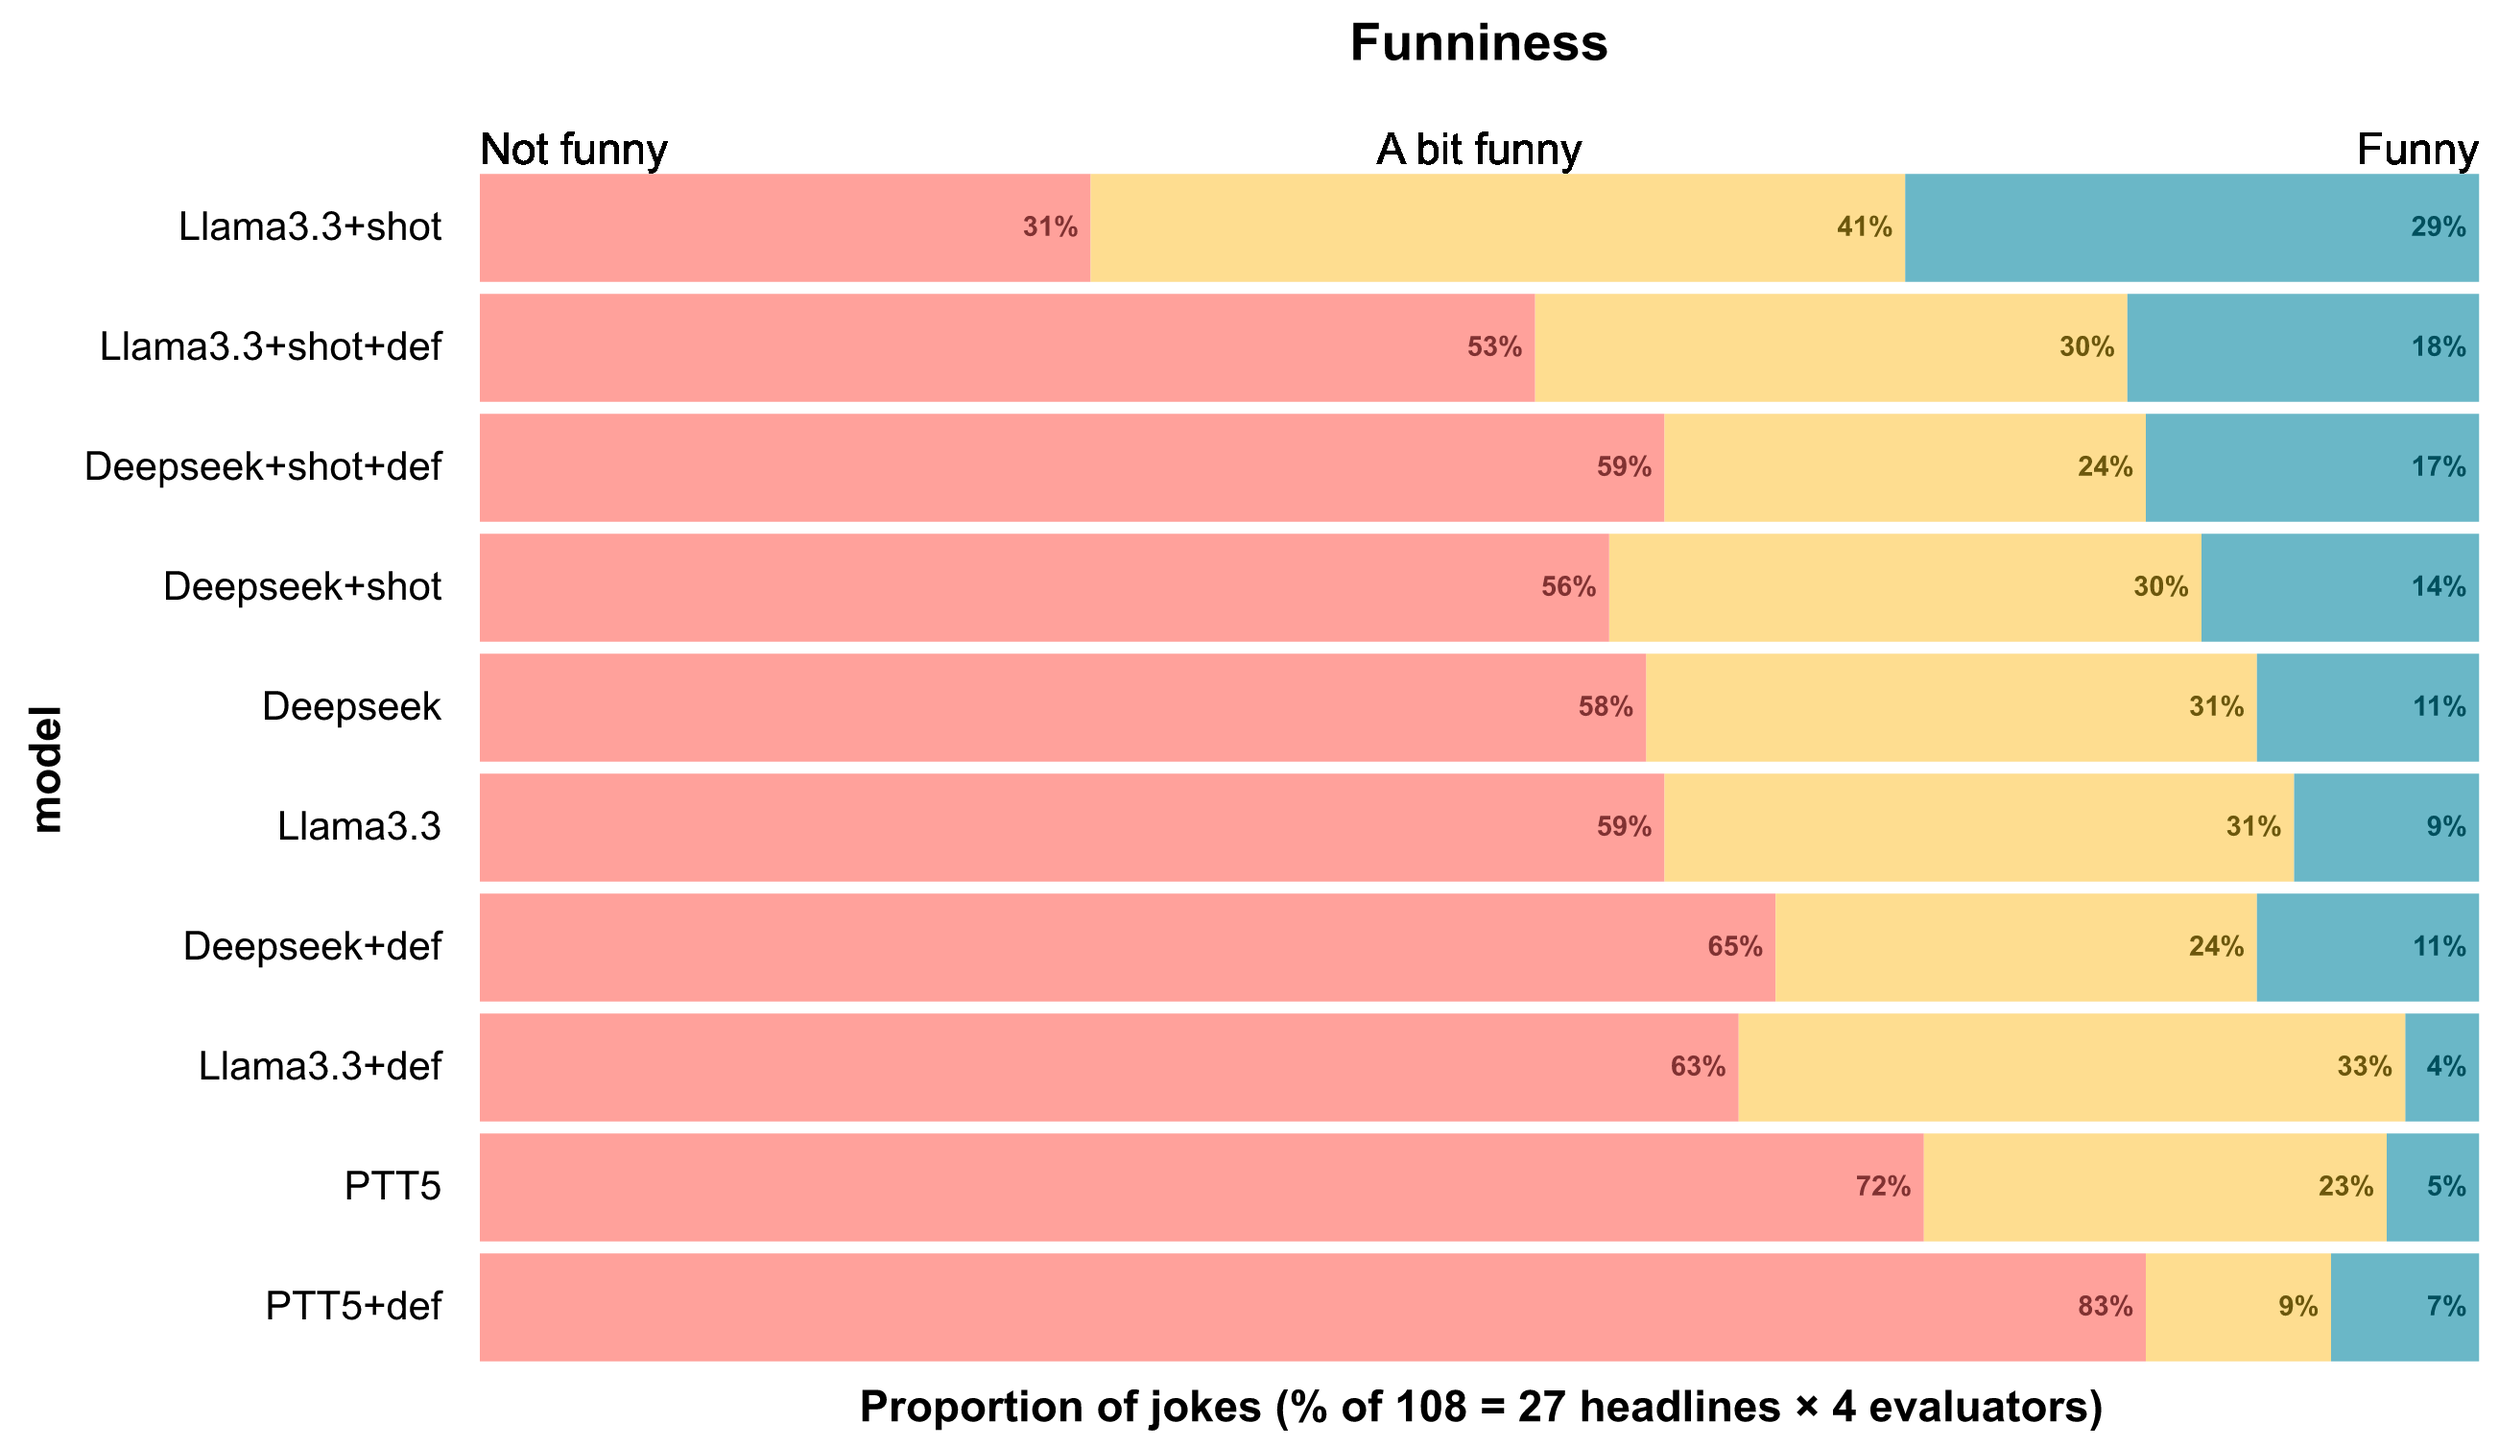
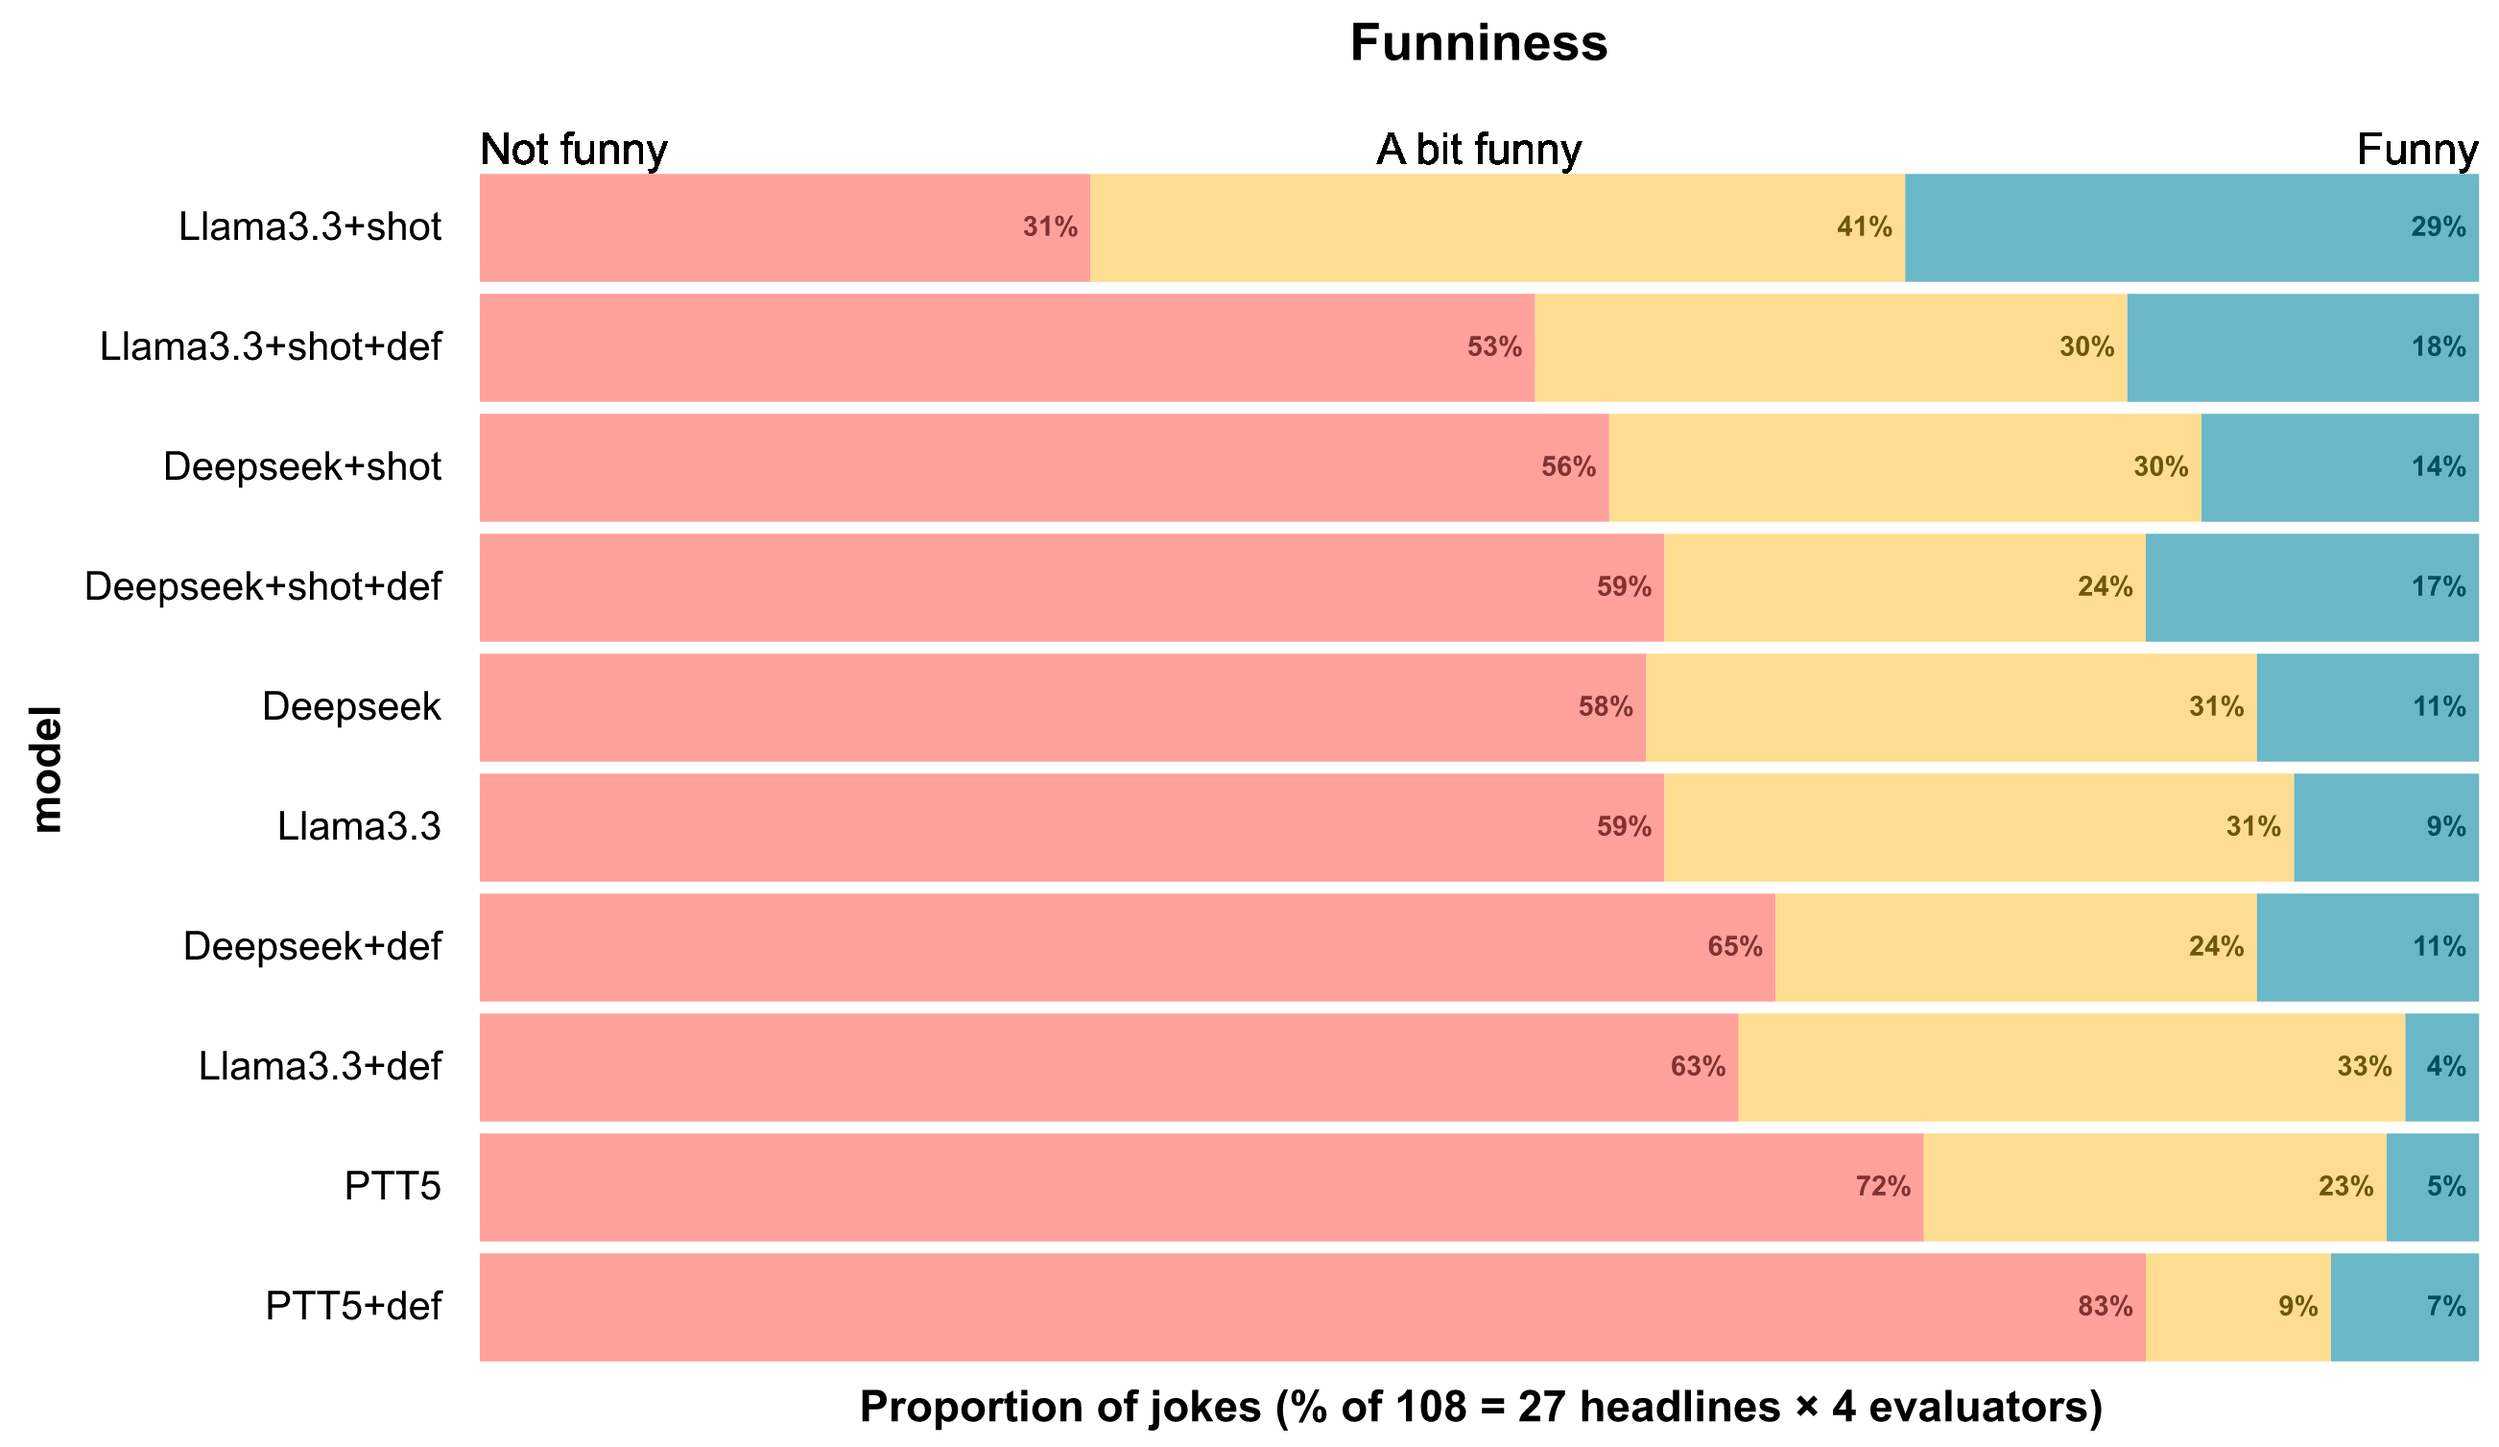
More analysis for the paper

diff --git a/scripts/analysis/evaluation_analysis.py b/scripts/analysis/evaluation_analysis.py
@@ -1,6 +1,8 @@
 from argparse import ArgumentParser
 from pathlib import Path
 
+from polars.convert import normalize
+
 import altair as alt
 import krippendorff
 import numpy as np
@@ -29,6 +31,8 @@ df = (pl.concat(dfs)
       .select([pl.col("evaluator"),
                pl.col("model").str.replace_many(model_names),
                pl.col("headline_id"),
+               pl.col("headline"),
+               pl.col("generated"),
                pl.col("funniness"),
                pl.col("typicality"),
                pl.col("relation"),
@@ -41,72 +45,140 @@ new_rows = list()
 splits_path = Path("evaluation_interface/config/config.yaml")
 splits = yaml.safe_load(splits_path.read_text())["splits"]
 splits_df = (pl.DataFrame([{"evaluator": evaluator, "headline_id": headline_ids}
-                          for evaluator, headline_ids in splits.items()
-                          if evaluator in df["evaluator"].unique()])
+                           for evaluator, headline_ids in splits.items()
+                           if evaluator in df["evaluator"].unique()])
              .explode("headline_id"))
 splits_df = splits_df.join(df.select(pl.col("model")), how="cross").unique()
 missing_df = (splits_df.join(df, on=["evaluator", "headline_id", "model"], how="anti")
               .with_columns([pl.lit("Não tem piada").alias("funniness"),
                              pl.lit("Não tem relação").alias("relation")])
-              .join(df.select(["headline_id", "model", "typicality", "similarity"]).unique(),
+              .join(df.select(pl.all().exclude(["evaluator", "funniness", "relation"])).unique(),
                     on=["headline_id", "model"], how="left")
               .select(pl.col("evaluator"),
                       pl.col("model"),
                       pl.col("headline_id"),
+                      pl.col("headline"),
+                      pl.col("generated"),
                       pl.col("funniness"),
                       pl.col("typicality"),
                       pl.col("relation"),
                       pl.col("similarity")))
 print(f"Added {missing_df.height} missing rows.\n")
-df = df.extend(missing_df)
+df = (df.extend(missing_df)
+      .with_columns(pl.col("funniness").cast(pl.Enum(fun_order)).to_physical() + 1,
+                    pl.col("relation").cast(pl.Enum(rel_order)).to_physical() + 1))
 
 # Descriptive statistics
-df = (df.with_columns([pl.col("funniness").cast(pl.Enum(fun_order)).to_physical(),
-                       pl.col("relation").cast(pl.Enum(rel_order)).to_physical()]))
 agg_df = (df.group_by(["model", "headline_id"])
-          .agg(pl.col("funniness").to_physical().mode().get(0),
+          .agg(pl.col("funniness").mode().max(),
                pl.col("typicality").first(),
-               pl.col("relation").to_physical().mode().get(0),
+               pl.col("relation").mode().max(),
                pl.col("similarity").first()))
-agg_df = df
 
-sort_fun = df.group_by("model").mean().sort("funniness", descending=True)
-sort_rel = df.group_by("model").mean().sort("relation", descending=True)
+
+print("###### Descriptive statistics ######")
+
+def tastle_wierman_consensus(x: pl.Series) -> float:
+    x_idx = x.to_numpy()
+    categories, counts = np.unique(x_idx, return_counts=True)
+    k = len(categories)
+    n = len(x_idx)
+
+    if k == 1:
+        return 1.0
+
+    mu_x = np.sum(categories * counts) / n
+    p_i = counts / n
+    d_x = k - 1
+    term = p_i * np.log2(1 - np.abs(categories - mu_x) / d_x)
+    consensus = 1 + term.sum()
+    return consensus
+
+print(df.group_by("model").agg(pl.col("funniness")
+                               .quantile(0.5).alias("funniness median"),
+                               pl.col("funniness")
+                               .map_batches(tastle_wierman_consensus)
+                               .alias("funniness consensus").get(0),
+                               pl.col("relation")
+                               .quantile(0.5).alias("relation median"),
+                               pl.col("relation")
+                               .map_batches(tastle_wierman_consensus)
+                               .alias("relation consensus").get(0))
+      .sort("model")
+      .write_csv())
 
 # Funniness, Typicality, Relation, and Similarity correlation
 print("###### Correlation analysis ######")
-print(agg_df.select(pl.col("funniness"),
-                    pl.col("typicality"),
-                    pl.col("relation"),
-                    pl.col("similarity")).corr())
+print(df.select(pl.col("funniness"),
+                pl.col("typicality"),
+                pl.col("relation"),
+                pl.col("similarity")).corr())
 print()
 
+# Krippendorff's alpha
 print("###### Agreement analysis ######")
-# Krippendorff's alpha for funniness
-fun_data = (df.select("evaluator")
-            .join(df.select("model", "headline_id"), how="cross").unique()
-            .join(df, on=["evaluator", "model", "headline_id"], how="left")
-            .pivot(index="evaluator", on=["model", "headline_id"], values="funniness")
-            .drop("evaluator")
-            .to_numpy())
-fun_alpha = krippendorff.alpha(fun_data, level_of_measurement="ordinal")
-print(f"Krippendorff's alpha for funniness: {fun_alpha:.2f}")
+models = df["model"].unique()
+funniness_alpha, relation_alpha = list(), list()
+for model in models:
+    fun_data = (df.filter(pl.col("model") == model)
+                .select("evaluator", "model")
+                .join(df.select("headline_id"), how="cross").unique()
+                .join(df, on=["evaluator", "model", "headline_id"], how="left")
+                .drop_nulls()
+                .pivot(index="evaluator", on="headline_id", values="funniness")
+                .drop("evaluator"))
+    fun_alpha = krippendorff.alpha(fun_data, level_of_measurement="ordinal")
+    funniness_alpha.append(fun_alpha)
 
-# Krippendorff's alpha for relation
-rel_data = (df.select("evaluator")
-            .join(df.select("model", "headline_id"), how="cross").unique()
-            .join(df, on=["evaluator", "model", "headline_id"], how="left")
-            .pivot(index="evaluator", on=["model", "headline_id"], values="relation")
-            .drop("evaluator")
-            .to_numpy())
-rel_alpha = krippendorff.alpha(rel_data, level_of_measurement="ordinal")
-print(f"Krippendorff's alpha for relation: {rel_alpha:.2f}")
+    rel_data = (df.filter(pl.col("model") == model)
+                .select("evaluator", "model")
+                .join(df.select("headline_id"), how="cross").unique()
+                .join(df, on=["evaluator", "model", "headline_id"], how="left")
+                .drop_nulls()
+                .pivot(index="evaluator", on="headline_id", values="relation")
+                .drop("evaluator"))
+    rel_alpha = krippendorff.alpha(rel_data, level_of_measurement="ordinal")
+    relation_alpha.append(rel_alpha)
+
+
+alpha = pl.DataFrame({"model": models, "funniness alpha": funniness_alpha,
+                      "relation alpha": relation_alpha})
+print(alpha.write_csv())
+
+# Llama3.3+shot Relation disagreements
+print("###### Llama3.3+shot relation disagreements ######")
+headlines = df["headline_id"].unique()
+num_disagreements = 0
+for headline_id in headlines:
+    llama_shot = (df.filter(pl.col("model") == "Llama3.3+shot")
+                  .filter(pl.col("headline_id") == headline_id))
+    if llama_shot["relation"].n_unique() > 1:
+        num_disagreements += 1
+    if llama_shot["relation"].n_unique() > 2:
+        headline = llama_shot["headline"].first()
+        joke = llama_shot["generated"].first()
+        ratings = llama_shot.select("evaluator", "relation").sort("evaluator")
+        print(f"Headline: {headline}")
+        print(f"Joke: {joke}")
+        print(f"Ratings: {', '.join([rel_order[r - 1] for r in ratings['relation']])}")
+        print()
+print(f"Total disagreements in Llama3.3+shot: {num_disagreements}")
+
+# Best jokes for every model
+print("###### Best jokes for every model ######")
+best_jokes = (agg_df.filter(pl.col("funniness") == 3)
+              .group_by("model").agg(pl.col("headline_id").sample(1).get(0))
+              .join(df, on=["model", "headline_id"])
+              .select("model", "headline", "generated")
+              .unique())
+print(best_jokes.write_csv())
 
 if not args.charts:
     exit()
 
 # Funniness
-fun_base = (alt.Chart(agg_df, title=alt.Title("Funniness", dy=-10))
+sort_fun = df.group_by("model").mean().sort("funniness", descending=True)
+fun_base = (alt.Chart(df, title=alt.Title("Funniness", dy=-10))
             .mark_bar(size=20)
             .encode(alt.X("count()")
                     .stack("normalize")
@@ -123,7 +195,7 @@ fun_base = (alt.Chart(agg_df, title=alt.Title("Funniness", dy=-10))
             .properties(width=500, height=300))
 fun_bars = (fun_base.mark_bar()
             .encode(color=alt.Color("funniness:O")
-                    .scale(domain=[0, 1, 2], range=bar_color_scheme)
+                    .scale(domain=[1, 2, 3], range=bar_color_scheme)
                     .legend(None)))
 ratio_fun_text = (fun_base.transform_joinaggregate(count="count()",
                                                    groupby=["model", "funniness"])
@@ -134,7 +206,7 @@ ratio_fun_text = (fun_base.transform_joinaggregate(count="count()",
                              fontWeight="bold")
                   .encode(text=alt.Text("ratio:Q", format=".0%"),
                           color=alt.Color("funniness:O")
-                          .scale(domain=[0, 1, 2], range=text_color_scheme)
+                          .scale(domain=[1, 2, 3], range=text_color_scheme)
                           .legend(None)))
 left_fun_text = (fun_bars
                  .mark_text(size=11, align="left",
@@ -161,7 +233,8 @@ fun_c = (alt.layer(fun_bars, left_fun_text, middle_fun_text, right_fun_text, rat
 fun_c.save("results/img/funniness_dist.png", ppi=300)
 
 # Relation
-rel_base = (alt.Chart(agg_df, title=alt.Title("Relation", dy=-10))
+sort_rel = df.group_by("model").mean().sort("relation", descending=True)
+rel_base = (alt.Chart(df, title=alt.Title("Relation", dy=-10))
             .encode(alt.X("count()")
                     .stack("normalize")
                     .axis(alt.Axis(domain=False,
@@ -178,7 +251,7 @@ rel_base = (alt.Chart(agg_df, title=alt.Title("Relation", dy=-10))
             .properties(width=500, height=300))
 rel_bars = (rel_base.mark_bar()
             .encode(color=alt.Color("relation:O")
-                    .scale(domain=[0, 1, 2], range=bar_color_scheme)
+                    .scale(domain=[1, 2, 3], range=bar_color_scheme)
                     .legend(None)))
 ratio_rel_text = (rel_base.transform_joinaggregate(count="count()",
                                                    groupby=["model", "relation"])
@@ -189,7 +262,7 @@ ratio_rel_text = (rel_base.transform_joinaggregate(count="count()",
                              fontWeight="bold")
                   .encode(text=alt.Text("ratio:Q", format=".0%"),
                           color=alt.Color("relation:O")
-                          .scale(domain=[0, 1, 2], range=text_color_scheme)
+                          .scale(domain=[1, 2, 3], range=text_color_scheme)
                           .legend(None)))
 left_rel_text = (rel_bars
                  .mark_text(size=11, align="left",
